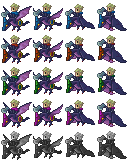
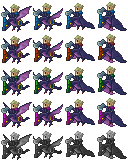
Fixed offsets again

diff --git a/splitter.py b/splitter.py
@@ -300,20 +300,21 @@ def process(fn, type, size, offset, alpha, outdir):
                     start = x*32,0
                     size = 32,32
                     sub = crop(idle[k], start, size)
-                    dest = x*32, -1 if x==3 else -2
+                    dest = x*32, -1 - (x+1)//2
                     paste(sub, newIdle, dest)
                 idle[k] = newIdle
                 
         if size==SMALL:
             #Idle image
             w,h = HEAD_IDLE_SIZE
+            offset = [1,3,2,2]
             for k in idle.keys():
                 newIdle = np.zeros((h,w,4), np.uint8)
                 for x in range(4):
                     start = x*16,0
                     size  = 16,16
                     sub   = crop(idle[k], start, size)
-                    dest  = x*32-24 - 2, 3 + (-1 if x==3 else -2)
+                    dest  = x*32-24 - 2, offset[x] - 1
                     paste(sub, newIdle, dest)
                 idle[k] = newIdle
 
